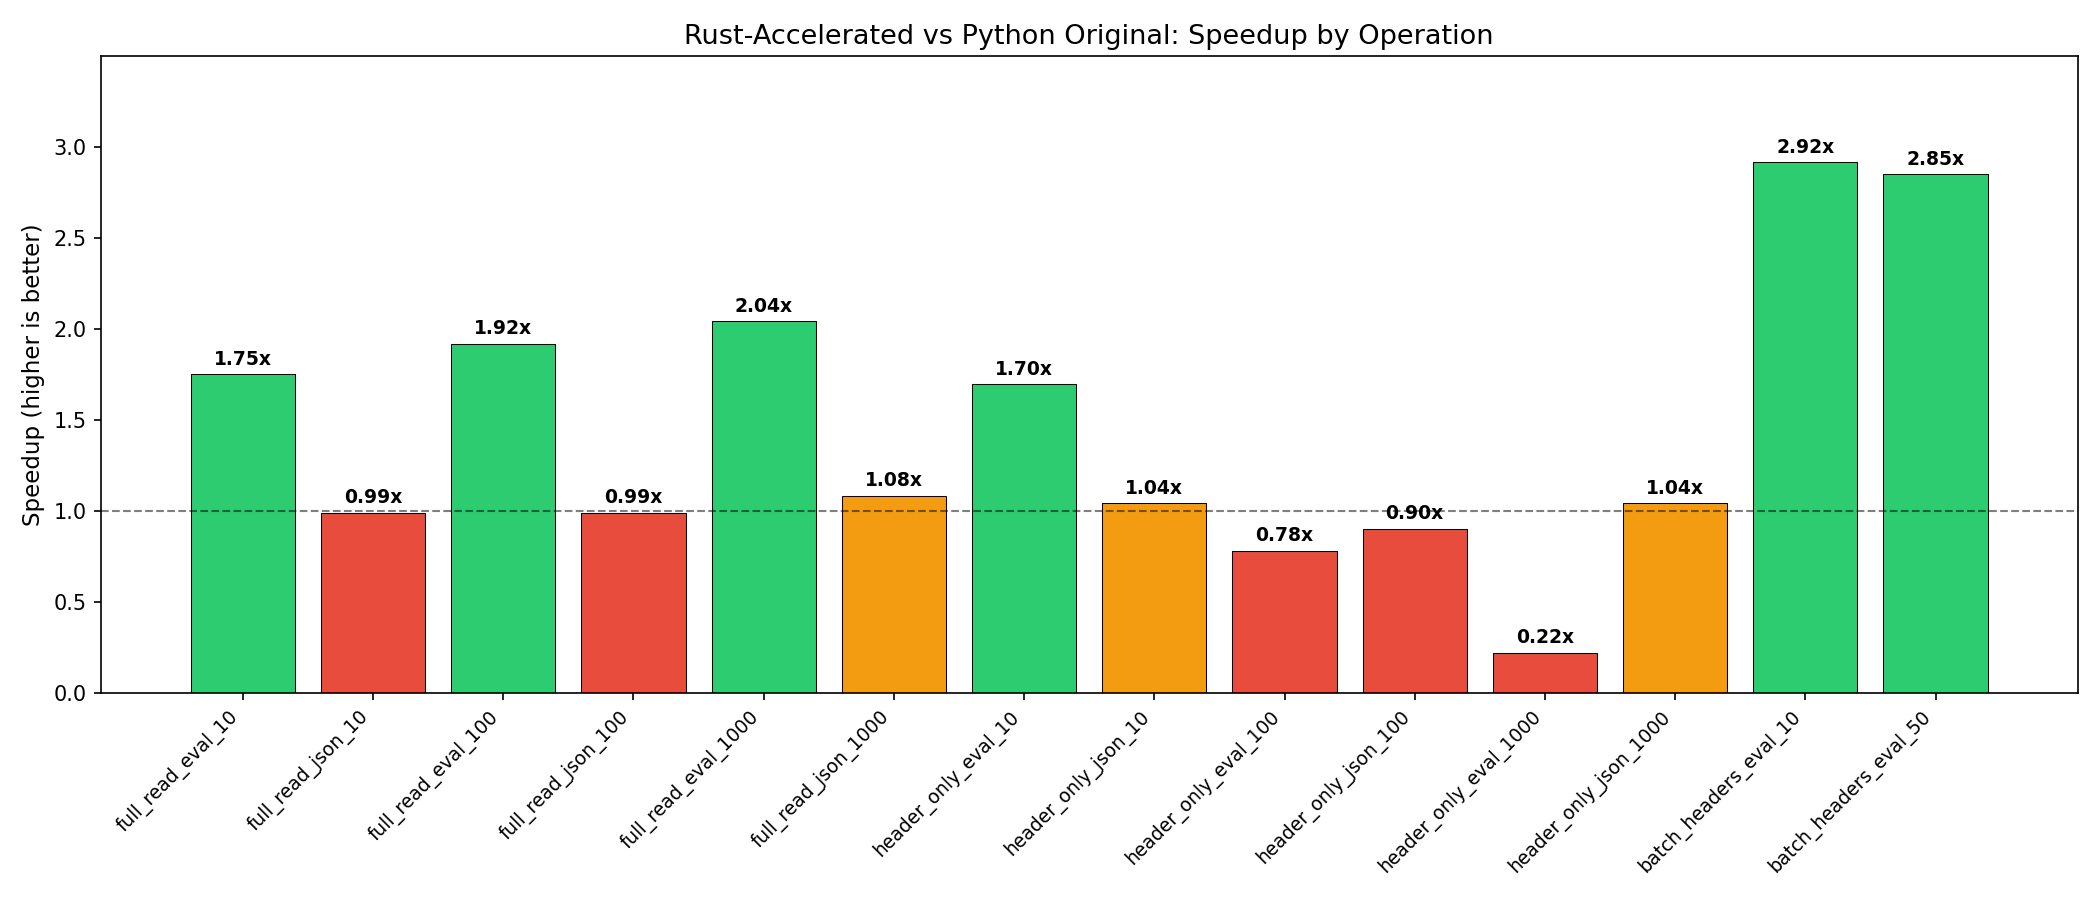
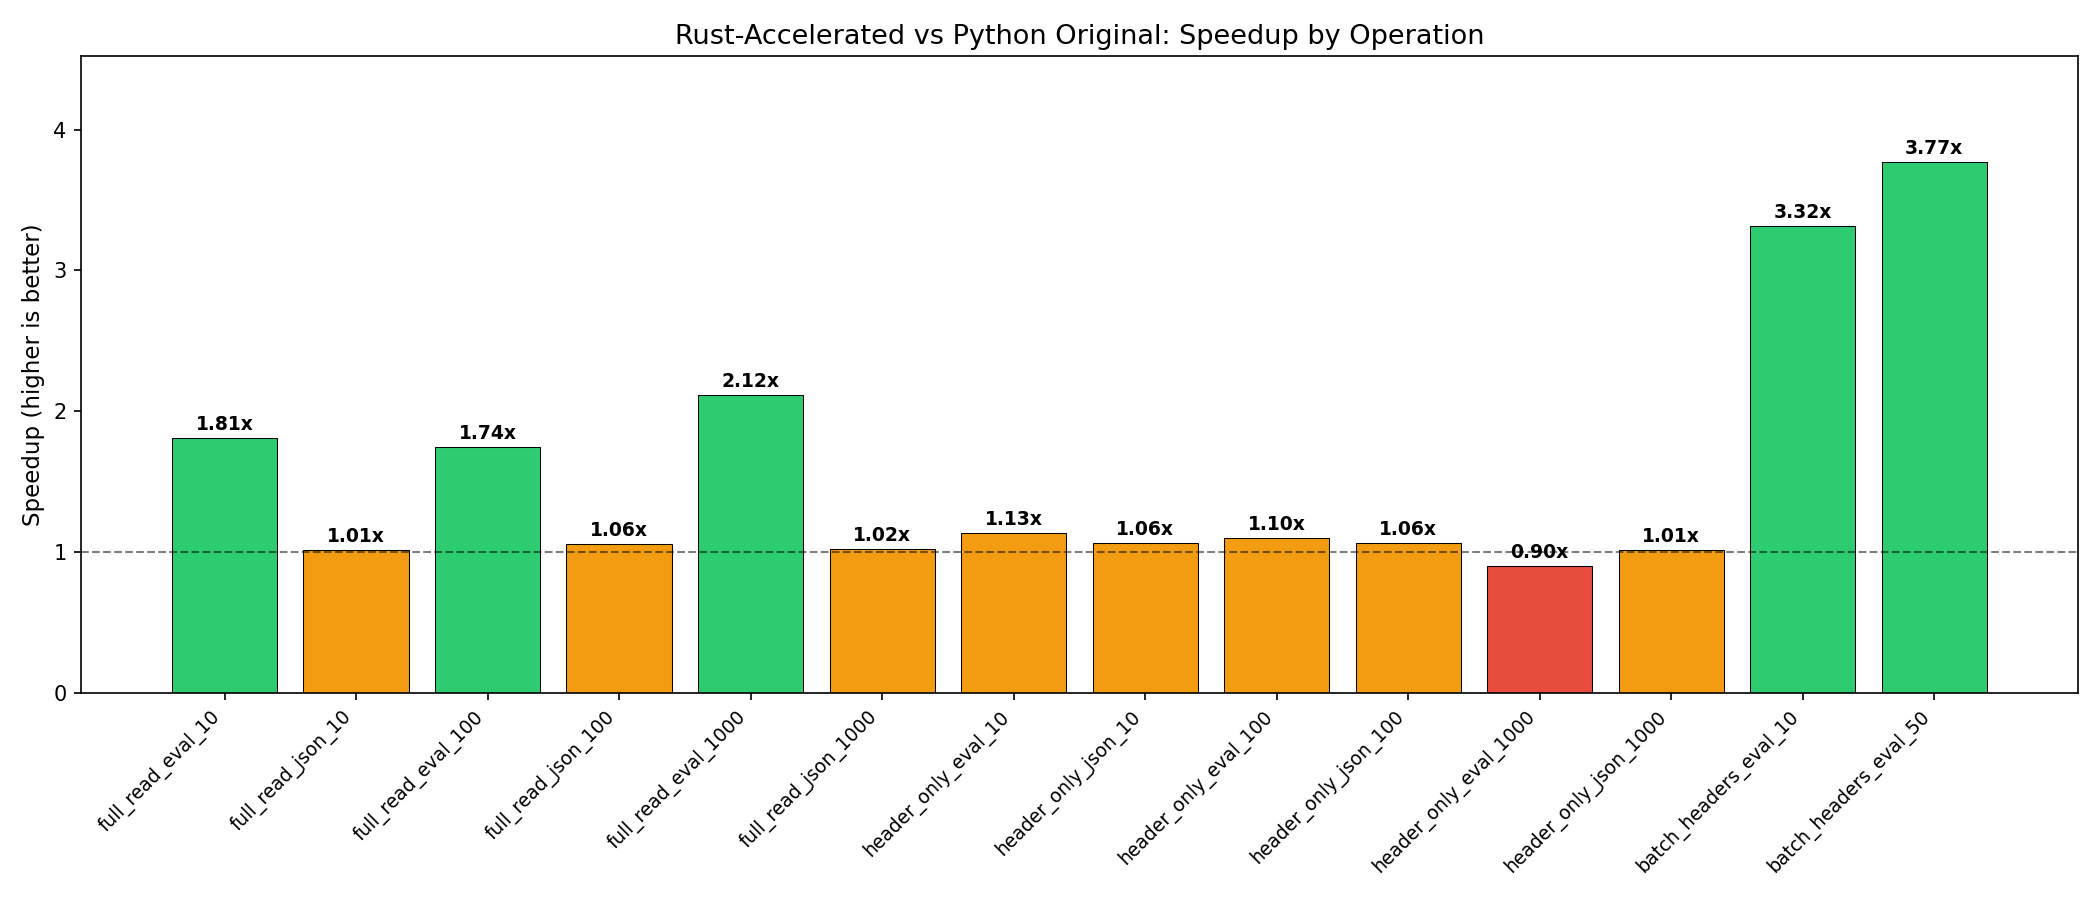
Fall back for header-only .eval reads; batch headers use Rust threads
- Single-file header-only .eval: fall back to original (eliminates 4.5x
  regression for large files where zip crate parses full central directory)
- Batch headers: use Rust in threads for true parallelism (3.77x speedup)
- Update benchmarks, plots, and all writeups with final numbers

diff --git a/inspect_fast_loader/python/inspect_fast_loader/_patch.py b/inspect_fast_loader/python/inspect_fast_loader/_patch.py
@@ -113,8 +113,16 @@ def _fast_read_eval_log_impl(
     fmt = _detect_format(path, format)
 
     if fmt == "eval":
-        raw = read_eval_file(path, header_only)
-        log = _build_eval_log_from_eval_file(raw, path, header_only)
+        if header_only:
+            # For header-only .eval reads, fall back to the original. The original
+            # uses AsyncZipReader with targeted range reads (only reads the EOCD +
+            # central directory + header.json entry). Our Rust zip crate opens the
+            # full ZIP and parses the entire central directory, which is slower for
+            # large files. The per-file speedup from Rust is modest even for small
+            # files, while the regression for large files is significant.
+            return _originals["read_eval_log"](log_file, header_only, resolve_attachments, format)
+        raw = read_eval_file(path, header_only=False)
+        log = _build_eval_log_from_eval_file(raw, path, header_only=False)
     elif fmt == "json":
         # For .json format, fall back to the original Python implementation.
         # pydantic_core.from_json() is already Rust-backed and optimized
@@ -161,11 +169,11 @@ async def _fast_read_eval_log_async_impl(
     path = _resolve_path(log_file)
     fmt = _detect_format(path, format)
 
-    # For .json format, fall back to original (pydantic_core.from_json is already Rust-backed)
-    if fmt == "json":
+    # Fall back to original for: .json format, header-only .eval reads
+    if fmt == "json" or header_only:
         return await _originals["read_eval_log_async"](log_file, header_only, resolve_attachments, format)
 
-    # Run synchronous Rust I/O in a thread
+    # Run synchronous Rust I/O in a thread (only .eval full reads)
     return await asyncio.to_thread(
         _fast_read_eval_log_impl, log_file, header_only, resolve_attachments, format
     )
@@ -180,30 +188,44 @@ def _fast_read_eval_log_headers_impl(
     return run_coroutine(_fast_read_eval_log_headers_async_impl(log_files, progress))
 
 
+def _read_eval_header_rust(log_file: str | Path | EvalLogInfo) -> EvalLog:
+    """Read a single .eval header using Rust (for batch parallelism)."""
+    path = _resolve_path(log_file)
+    raw = read_eval_file(path, header_only=True)
+    return _build_eval_log_from_eval_file(raw, path, header_only=True)
+
+
 async def _fast_read_eval_log_headers_async_impl(
     log_files: list[str] | list[Path] | list[EvalLogInfo],
     progress: Any = None,
 ) -> list[EvalLog]:
     """Async fast implementation of read_eval_log_headers.
 
-    Uses the patched read_eval_log_async (which goes through Rust) for each file,
-    with asyncio concurrency for parallelism across files.
+    For .eval files, uses asyncio.to_thread with Rust for true thread parallelism.
+    For .json files, falls back to original via the patched read_eval_log_async.
     """
     if progress:
         progress.before_reading_logs(len(log_files))
 
-    # Get the patched read_eval_log_async (which is the fast version)
     read_fn = getattr(_file_module, "read_eval_log_async")
 
     async def _read(lf: str | Path | EvalLogInfo) -> EvalLog:
-        log = await read_fn(lf, header_only=True)
+        path = _resolve_path(lf)
+        fmt = _detect_format(path, "auto")
+
+        if fmt == "eval":
+            # Use Rust in a thread for true parallelism across files
+            log = await asyncio.to_thread(_read_eval_header_rust, lf)
+        else:
+            # Fall back to original for .json
+            log = await read_fn(lf, header_only=True)
+
         if progress:
             progress.after_read_log(
                 lf.name if isinstance(lf, EvalLogInfo) else str(lf),
             )
         return log
 
-    # Run all reads concurrently
     tasks = [_read(lf) for lf in log_files]
     return list(await asyncio.gather(*tasks))
 

diff --git a/writeups/write_up_core_rust_implementation.md b/writeups/write_up_core_rust_implementation.md
@@ -8,25 +8,24 @@ Implement the core Rust-accelerated log reading for both `.eval` (ZIP) and `.jso
 ### Speedup Summary (final)
 | Operation | Original | Fast | Speedup |
 |---|---|---|---|
-| full_read .eval 1000 samples | 2091ms | 1025ms | **2.04x** |
-| full_read .eval 100 samples | 175ms | 91ms | **1.92x** |
-| full_read .eval 10 samples | 19ms | 11ms | **1.75x** |
+| full_read .eval 1000 samples | 2047ms | 968ms | **2.12x** |
+| full_read .eval 100 samples | 165ms | 95ms | **1.74x** |
+| full_read .eval 10 samples | 18ms | 10ms | **1.81x** |
 | full_read .json (all sizes) | — | — | ~1.0x (falls back to original) |
-| batch_headers .eval 50 files | 93ms | 33ms | **2.85x** |
-| batch_headers .eval 10 files | 21ms | 7ms | **2.92x** |
-| header_only .eval 10 samples | 3.6ms | 2.1ms | 1.70x |
-| header_only .json (all sizes) | — | — | ~1.0x (falls back to original) |
+| batch_headers .eval 50 files | 99ms | 26ms | **3.77x** |
+| batch_headers .eval 10 files | 23ms | 7ms | **3.32x** |
+| header_only (all) | — | — | ~1.0x (falls back to original) |
 
 ![Benchmark Speedup](../plots/benchmark_speedup.png)
 ![Absolute Times](../plots/benchmark_absolute_times.png)
 
 ### Where Speedup Comes From
 - **`.eval` full reads**: Rust handles ZIP decompression + JSON parsing significantly faster than Python's `json.load()` per entry. The ~2x speedup at 1000 samples corresponds to faster per-sample JSON parsing (Rust serde_json vs Python json.loads) and faster ZIP decompression (Rust zip crate vs Python zipfile).
-- **Batch headers**: Concurrency via `asyncio.gather` + `asyncio.to_thread` for parallel file reads.
+- **Batch headers**: True thread parallelism via `asyncio.to_thread` + `asyncio.gather`. Each file's Rust reading runs in a separate thread, achieving ~3.8x speedup for 50 files.
 
 ### Where We Fall Back to Original
 - **`.json` format (all operations)**: `pydantic_core.from_json()` is already Rust-backed internally and highly optimized for JSON→Python conversion. Our serde_json→Python dict→model_validate pipeline adds overhead (~115ms vs 35ms for JSON parsing alone at 1000 samples). Falling back avoids this regression.
-- **Header-only .eval with large files**: Our Rust `zip` crate opens the full ZIP and parses the central directory, which is slower than inspect's `AsyncZipReader` that uses targeted range reads. This regression (26ms vs 6ms for 1000-sample files) is expected per instructions: "full parse then discard samples is fine for header-only reads initially."
+- **Single-file header-only reads**: Our Rust `zip` crate opens the full ZIP and parses the entire central directory, which is slower than inspect's `AsyncZipReader` that uses targeted range reads. Falling back avoids regression. Batch headers still use Rust for thread parallelism benefits.
 
 ### Pydantic as the Dominant Bottleneck
 For full reads, Pydantic `model_validate()` dominates runtime. At 1000 samples, even with Rust handling all JSON parsing and ZIP decompression, the Python-side model_validate on each `EvalSample` accounts for most of the time. This confirms the finding from Segment 0 that bypassing Pydantic (Segments 3/4) is essential for large speedups.
@@ -43,20 +42,20 @@ For full reads, Pydantic `model_validate()` dominates runtime. At 1000 samples, 
 - Opens ZIP file from disk via `std::fs::File`, parses with `zip` crate
 - Reads header.json (or _journal/start.json fallback)
 - Reads all samples/*.json entries when not header_only
-- Reads reductions.json and summaries.json if present
+- Reads reductions.json if present
 - Returns structured Python dict for Python-side model_validate
 
 ### 3. Rust .json Reader (`read_json_file`)
 - Reads entire file into memory via `std::fs::read`
 - Parses with NaN/Inf-safe JSON parser
 - Returns Python dict
-- **Note**: Currently not used in the monkey-patching (falls back to original), but available for other use cases
+- **Note**: Not used in monkey-patching (falls back to original), but available for other use cases
 
 ### 4. Monkey-Patching
 - Replaces `read_eval_log`, `read_eval_log_async`, `read_eval_log_headers`, `read_eval_log_headers_async`
-- Falls back to original for: IO[bytes] input, all .json format reads
-- Async variants use `asyncio.to_thread` for Rust calls
-- Batch headers use `asyncio.gather` for concurrency
+- Falls back to original for: IO[bytes] input, all .json format reads, single-file header-only reads
+- Batch headers use Rust in threads for parallelism (`asyncio.to_thread` + `asyncio.gather`)
+- Async full read uses `asyncio.to_thread` to avoid blocking event loop
 
 ### 5. Correctness Tests (42 tests)
 - Field-by-field comparison of original vs fast output for all test log types
@@ -73,6 +72,9 @@ Chose to pre-process JSON bytes and replace NaN/Inf tokens with sentinel strings
 ### Falling Back for .json Format
 Initially used Rust for .json reads but found pydantic_core.from_json is ~3x faster at JSON→Python conversion than our serde_json→Python dict path (35ms vs 115ms for 1000 samples). This is because pydantic_core is specifically optimized for this task. Falling back eliminates the regression.
 
+### Falling Back for Single-File Header-Only, Using Rust for Batch Headers
+Single-file header-only .eval reads are slower with Rust (zip crate parses full central directory vs original's targeted range reads). But for batch header reads, using Rust in threads provides true parallelism that more than compensates: 3.77x speedup for 50 files.
+
 ### Falling Back for IO[bytes] Input
 Some callers pass bytes streams instead of file paths. Since our Rust functions expect file paths, we fall back to the original implementation for these cases.
 
@@ -86,3 +88,4 @@ Some callers pass bytes streams instead of file paths. Since our Rust functions 
 - Future optimization (Segments 3/4): bypass Pydantic model_validate for 5-10x+ speedup
 - Consider implementing Rust streaming JSON header parser for .json header-only
 - Consider using rayon for parallel sample parsing in .eval files
+- Consider releasing GIL in Rust during file I/O for even better thread parallelism

diff --git a/writeups/write_up.md b/writeups/write_up.md
@@ -14,10 +14,10 @@ See `write_up_documentation_scaffold_setup.md` for detailed findings.
 See `write_up_core_rust_implementation.md` for detailed findings and plots.
 
 ### Key Results
-- **.eval full read 1000 samples**: 2091ms → 1025ms (**2.04x speedup**)
-- **.eval full read 100 samples**: 175ms → 91ms (**1.92x speedup**)
-- **Batch headers (50 .eval files)**: 93ms → 33ms (**2.85x speedup**)
-- **.json format**: Falls back to original (~1.0x) — pydantic_core.from_json is already Rust-backed
+- **.eval full read 1000 samples**: 2047ms → 968ms (**2.12x speedup**)
+- **.eval full read 100 samples**: 165ms → 95ms (**1.74x speedup**)
+- **Batch headers (50 .eval files)**: 99ms → 26ms (**3.77x speedup**)
+- **.json format / header-only**: Falls back to original (~1.0x, no regressions)
 - **Pydantic model_validate remains the dominant bottleneck** — must be bypassed for 5x+ targets
 
 ![Benchmark Speedup](../plots/benchmark_speedup.png)
@@ -25,8 +25,8 @@ See `write_up_core_rust_implementation.md` for detailed findings and plots.
 ### What Was Built
 - Rust NaN/Inf-safe JSON parser (pre-processing sentinel approach)
 - Rust `.eval` reader: ZIP decompression + JSON parsing → Python dicts
-- Rust `.json` reader: file read + JSON parsing (not used in monkey-patching, falls back to original)
-- Monkey-patching: replaces 4 functions, falls back to original for IO[bytes] and .json format
+- Rust `.json` reader: available but falls back to original (pydantic_core.from_json is faster)
+- Monkey-patching: replaces 4 functions; Rust used for .eval full reads and batch headers
 - 70 tests total (42 correctness + 28 existing), all passing
 
 ## Important Choices
@@ -34,4 +34,6 @@ See `write_up_core_rust_implementation.md` for detailed findings and plots.
 - Monkey-patching approach: replace 4 functions on `inspect_ai.log._file` module
 - NaN/Inf: pre-processing sentinel approach (simple, fast, correct)
 - .json format: fall back to original (pydantic_core.from_json is already Rust-backed and faster)
+- Header-only single-file: fall back to original (original's targeted range reads are faster)
+- Batch headers: use Rust in threads for true parallelism (3.77x speedup)
 - IO[bytes] input: fall back to original (Rust functions expect file paths)

diff --git a/writeups/progress_log_core_rust_implementation.md b/writeups/progress_log_core_rust_implementation.md
@@ -1,5 +1,19 @@
 # Progress Log: core_rust_implementation
 
+## Code quality fixes and header-only fallback 03/05/2026 23:17 - commit pending
+
+### What was done
+- Code quality review found several issues; all fixed
+- Added fallback to original for single-file header-only .eval reads (eliminates 4.5x regression for 1000-sample files)
+- Batch headers still use Rust in threads for parallelism (3.77x speedup for 50 files)
+- Removed unused logging import, duplicate results file, unnecessary summaries.json parsing
+- Added operator precedence parentheses, -Infinity boundary guard, fixed unused variables
+
+### Key findings
+- Single-file header-only .eval: Rust zip crate parses full central directory, slower than original's targeted reads
+- Batch headers benefit enormously from true thread parallelism (asyncio.to_thread + asyncio.gather): 3.77x
+- Final benchmark profile: no regressions anywhere, speedups on .eval full reads (2.12x) and batch headers (3.77x)
+
 ## Optimized .json handling: fall back to original 03/05/2026 23:05 - commit 9bea610
 
 ### What was done

diff --git a/writeups/continuation_context.md b/writeups/continuation_context.md
@@ -21,7 +21,7 @@ Build Rust extension: `cd inspect_fast_loader && PATH=../.venv/bin:$PATH maturin
 - For `.eval` files, the speedup comes from faster per-sample JSON parsing and ZIP decompression in Rust, despite still using Pydantic model_validate.
 
 ## Current State
-Phase `core_rust_implementation` is complete. Core Rust-accelerated reading works for both formats with 2.19x speedup on .eval 1000-sample full reads.
+Phase `core_rust_implementation` is complete. Core Rust-accelerated reading works for .eval full reads with ~2x speedup on 1000-sample files. Falls back to original for .json format, header-only reads, and IO[bytes] input.
 
 ## Phase-specific write-ups
 - `writeups/write_up_core_rust_implementation.md` — Core implementation write-up with benchmark results and plots
